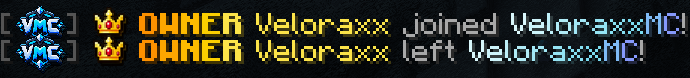
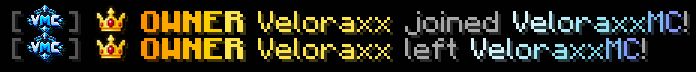
add leaderboards and update join messages

diff --git a/index.html b/index.html
@@ -97,21 +97,27 @@
 
       <article class="join-showcase showcase reveal">
         <div><span class="index">05 / JOIN &amp; LEAVE</span><h3>Join &amp; Leave Messages</h3><p>Join and leave messages with rank prefixes and VMC branding.</p><ul class="tags" aria-label="Join and leave plugins and assets"><li>Essentials</li><li>LuckPerms</li><li>Resource Pack</li></ul></div>
-        <button class="image-viewer join-image" data-lightbox aria-label="Enlarge join and leave messages"><img src="assets/images/join_leave_messages.png" width="690" height="78" loading="lazy" alt="Branded VeloraxxMC join and leave messages with VMC and Owner rank glyphs"><span class="expand-label"><svg><use href="#expand-icon"/></svg></span></button>
+        <button class="image-viewer join-image" data-lightbox aria-label="Enlarge join and leave messages"><img src="assets/images/join_leave_messages.png?v=2" width="696" height="72" loading="lazy" alt="Branded VeloraxxMC join and leave messages with VMC and Owner rank glyphs"><span class="expand-label"><svg><use href="#expand-icon"/></svg></span></button>
+      </article>
+
+      <article class="leaderboard-showcase showcase reveal">
+        <div class="showcase-heading"><div><span class="index">06 / PLAYER LEADERBOARDS</span><h3>Leaderboards</h3></div><p>Top 10 boards for coins, money, kills, deaths and playtime. Each also shows your own stats and rank.</p></div>
+        <button class="image-viewer" data-lightbox aria-label="Enlarge the leaderboard screenshot"><img src="assets/images/leaderboard_showcase.png" width="2306" height="730" loading="lazy" alt="VeloraxxMC leaderboards for playtime, deaths, kills, money and coins, with custom glyphs, personal stats and global ranks"><span class="expand-label"><svg><use href="#expand-icon"/></svg>View full image</span></button>
+        <div class="media-footer"><ul class="tags" aria-label="Leaderboard plugins and assets"><li>DecentHolograms</li><li>ajLeaderboards</li><li>PlaceholderAPI</li><li>Resource Pack</li></ul></div>
       </article>
 
       <article class="video-showcase showcase reveal">
-        <div class="video-copy"><span class="index">06 / PLAYER MENU</span><h3>Custom Player Menu</h3><p>Profiles, settings, crate previews and daily rewards in one player menu.</p><ul class="tags"><li>DeluxeMenus</li><li>PlaceholderAPI</li><li>Resource Pack</li></ul></div>
+        <div class="video-copy"><span class="index">07 / PLAYER MENU</span><h3>Custom Player Menu</h3><p>Profiles, settings, crate previews and daily rewards in one player menu.</p><ul class="tags"><li>DeluxeMenus</li><li>PlaceholderAPI</li><li>Resource Pack</li></ul></div>
         <div class="video-frame"><video id="menu-video" controls playsinline preload="none" poster="assets/images/menu-poster.jpg" width="2558" height="1440" aria-label="Custom player menu showcase"><source src="assets/videos/DeluxeMenus_Showcase.mp4" type="video/mp4">Your browser does not support embedded video. <a href="assets/videos/DeluxeMenus_Showcase.mp4">Watch the player menu showcase</a>.</video><button class="video-play" aria-label="Play the custom player menu showcase"><svg><use href="#play-icon"/></svg><span>Watch showcase <small>0:28</small></span></button></div>
       </article>
 
       <article class="video-showcase showcase reveal">
-        <div class="video-copy"><span class="index">07 / CRATES</span><h3>Crates &amp; Rewards</h3><p>Solar and Aurora crates with separate themes, reward pools, custom keys and previews.</p><ul class="tags"><li>ExcellentCrates</li><li>ItemEdit</li><li>Resource Pack</li></ul></div>
+        <div class="video-copy"><span class="index">08 / CRATES</span><h3>Crates &amp; Rewards</h3><p>Solar and Aurora crates with separate themes, reward pools, custom keys and previews.</p><ul class="tags"><li>ExcellentCrates</li><li>ItemEdit</li><li>Resource Pack</li></ul></div>
         <div class="video-frame"><video id="crates-video" controls playsinline preload="none" poster="assets/images/crates-poster.jpg" width="2558" height="1440" aria-label="ExcellentCrates showcase"><source src="assets/videos/ExcellentCrates_Showcase.mp4" type="video/mp4">Your browser does not support embedded video. <a href="assets/videos/ExcellentCrates_Showcase.mp4">Watch the crates showcase</a>.</video><button class="video-play" aria-label="Play the ExcellentCrates showcase"><svg><use href="#play-icon"/></svg><span>Watch showcase <small>0:27</small></span></button></div>
       </article>
 
       <article class="video-showcase showcase reveal">
-        <div class="video-copy"><span class="index">08 / DAILY REWARDS</span><h3>Daily Claims &amp; Streaks</h3><p>Daily claims, reward previews and streak milestones with custom icons and formatting.</p><ul class="tags"><li>Daily Rewards</li><li>Resource Pack</li></ul></div>
+        <div class="video-copy"><span class="index">09 / DAILY REWARDS</span><h3>Daily Claims &amp; Streaks</h3><p>Daily claims, reward previews and streak milestones with custom icons and formatting.</p><ul class="tags"><li>Daily Rewards</li><li>Resource Pack</li></ul></div>
         <div class="video-frame"><video id="rewards-video" controls playsinline preload="none" poster="assets/images/rewards-poster.jpg" width="2558" height="1440" aria-label="Daily Rewards showcase"><source src="assets/videos/Rewards_Showcase.mp4" type="video/mp4">Your browser does not support embedded video. <a href="assets/videos/Rewards_Showcase.mp4">Watch the daily rewards showcase</a>.</video><button class="video-play" aria-label="Play the Daily Rewards showcase"><svg><use href="#play-icon"/></svg><span>Watch showcase <small>0:42</small></span></button></div>
       </article>
     </section>
